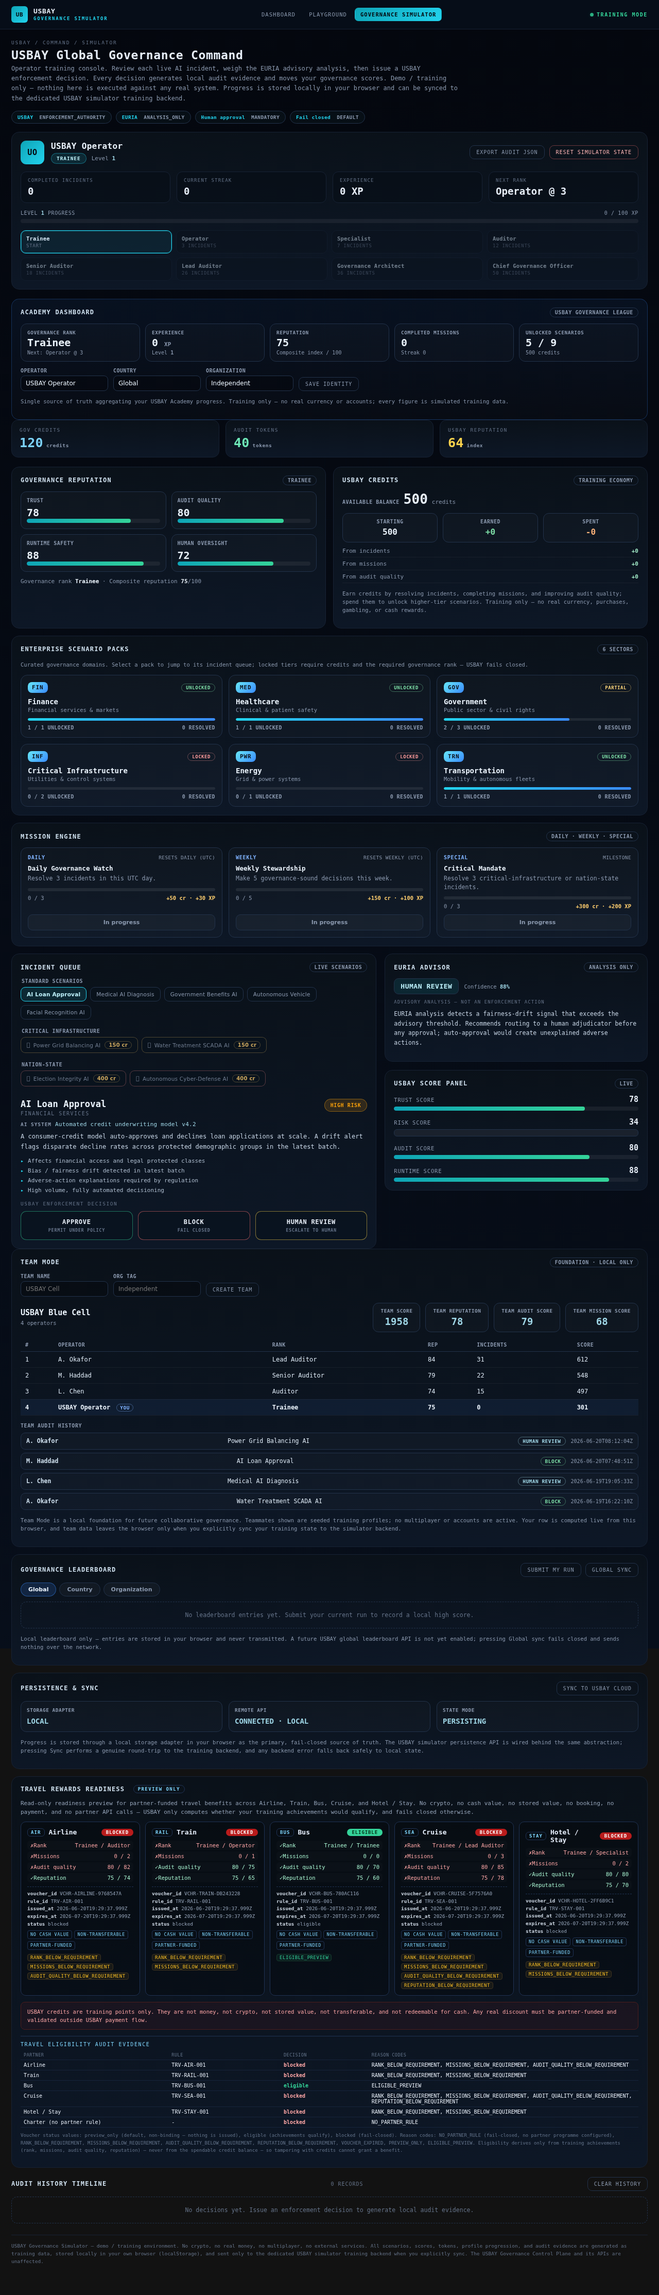
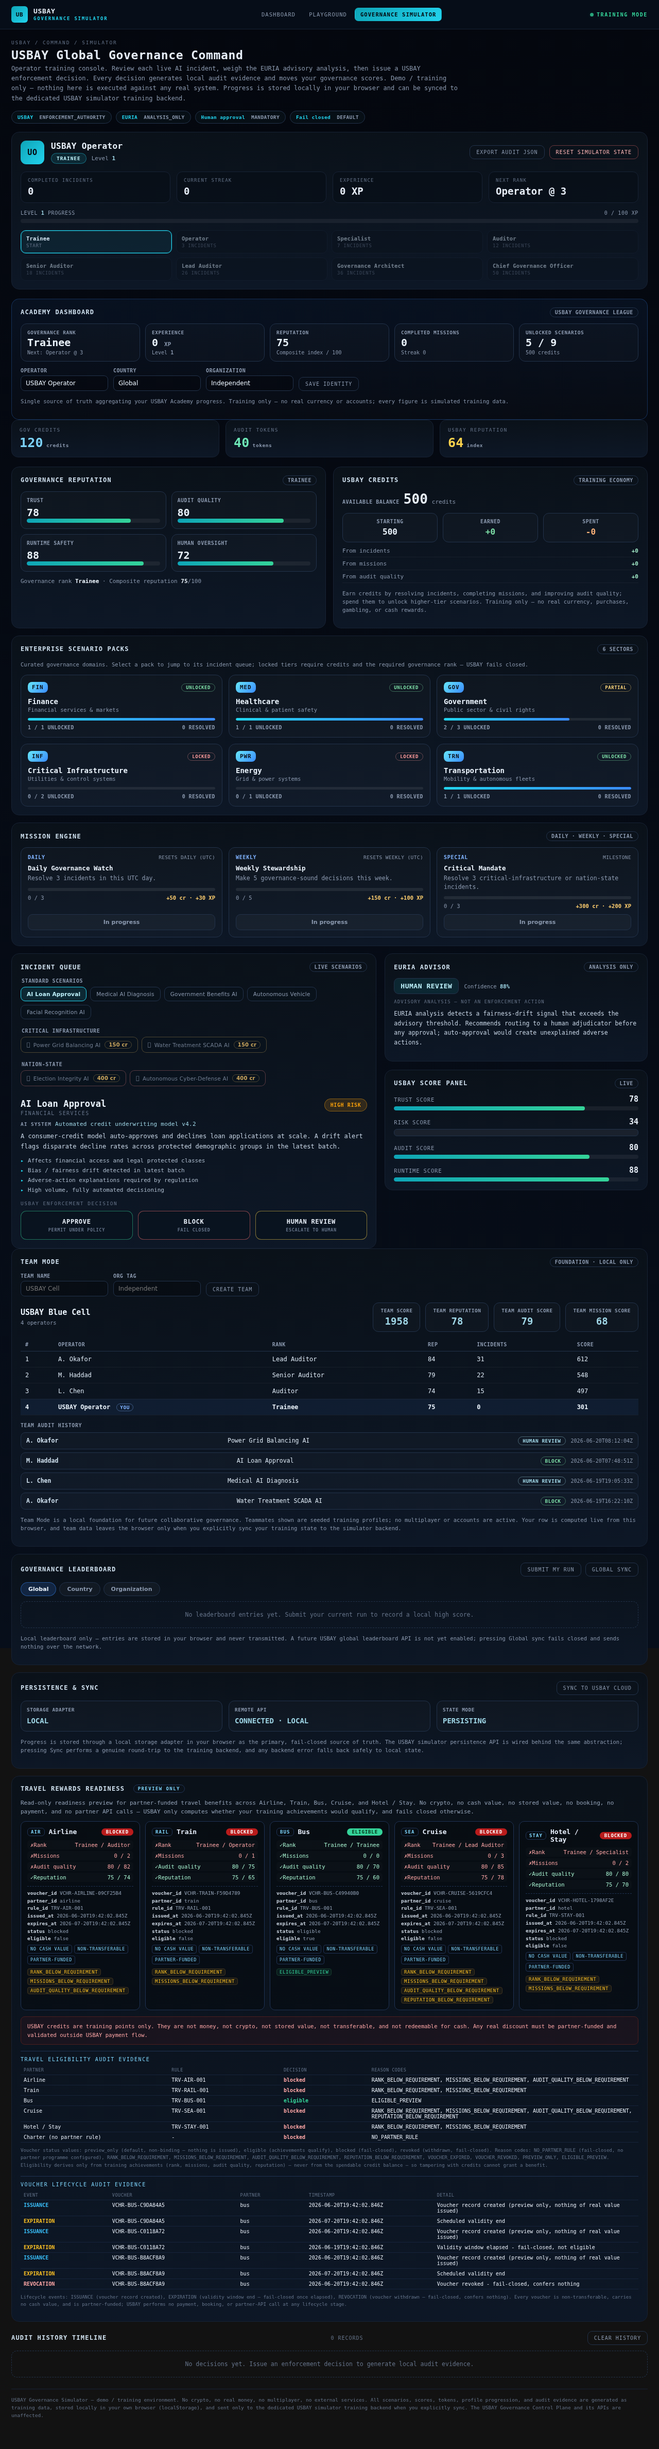
Add detailed voucher lifecycle tracking and revocation functionality
Implement a voucher framework with partner IDs, eligibility flags, revocation states, and a lifecycle audit table.

Replit-Commit-Author: Agent
Replit-Commit-Session-Id: 10dcf6be-d557-4147-8701-eb32a3d14e91
Replit-Commit-Checkpoint-Type: full_checkpoint
Replit-Commit-Event-Id: 1d6b1292-d80b-4be8-82ef-5ca2224a7b55
Replit-Commit-Screenshot-Url: https://storage.googleapis.com/screenshot-production-us-central1/76bb5c69-eeb6-4278-9927-109581d606aa/10dcf6be-d557-4147-8701-eb32a3d14e91/0ITZ0lg
Replit-Helium-Checkpoint-Created: true

diff --git a/gateway/app.py b/gateway/app.py
@@ -12280,6 +12280,10 @@ def governance_simulator_html() -> str:
       .trv-arow.head{color:#64748b;letter-spacing:.06em;text-transform:uppercase;font-size:8.5px;}
       .trv-as.el{color:#34d399;font-weight:700;} .trv-as.bl{color:#fca5a5;font-weight:700;}
       .trv-leg{margin-top:8px;font-size:9px;color:#64748b;line-height:1.6;}
+      .trv-life-aud{margin-top:14px;}
+      .trv-lrow{display:grid;grid-template-columns:.85fr 1.25fr .65fr 1.25fr 2fr;gap:8px;font-size:10px;padding:4px 6px;border-bottom:1px solid rgba(31,50,83,.5);}
+      .trv-lrow.head{color:#64748b;letter-spacing:.06em;text-transform:uppercase;font-size:8.5px;}
+      .trv-le{font-weight:700;} .trv-le.is{color:#38bdf8;} .trv-le.ex{color:#fbbf24;} .trv-le.rv{color:#fca5a5;}
     </style>
     <section class="panel trv" aria-label="Travel Rewards Readiness" id="travel">
       <div class="log-head">
@@ -12292,7 +12296,13 @@ def governance_simulator_html() -> str:
         <div class="trv-aud-h">Travel Eligibility Audit Evidence</div>
         <div class="trv-arow head"><span>Partner</span><span>Rule</span><span>Decision</span><span>Reason codes</span></div>
         <div id="trv-audit"></div>
-        <p class="trv-leg">Voucher status values: preview_only (default, non-binding &mdash; nothing is issued), eligible (achievements qualify), blocked (fail-closed). Reason codes: NO_PARTNER_RULE (fail-closed, no partner programme configured), RANK_BELOW_REQUIREMENT, MISSIONS_BELOW_REQUIREMENT, AUDIT_QUALITY_BELOW_REQUIREMENT, REPUTATION_BELOW_REQUIREMENT, VOUCHER_EXPIRED, PREVIEW_ONLY, ELIGIBLE_PREVIEW. Eligibility derives only from training achievements (rank, missions, audit quality, reputation) &mdash; never from the spendable credit balance &mdash; so tampering with credits cannot grant a benefit.</p>
+        <p class="trv-leg">Voucher status values: preview_only (default, non-binding &mdash; nothing is issued), eligible (achievements qualify), blocked (fail-closed), revoked (withdrawn, fail-closed). Reason codes: NO_PARTNER_RULE (fail-closed, no partner programme configured), RANK_BELOW_REQUIREMENT, MISSIONS_BELOW_REQUIREMENT, AUDIT_QUALITY_BELOW_REQUIREMENT, REPUTATION_BELOW_REQUIREMENT, VOUCHER_EXPIRED, VOUCHER_REVOKED, PREVIEW_ONLY, ELIGIBLE_PREVIEW. Eligibility derives only from training achievements (rank, missions, audit quality, reputation) &mdash; never from the spendable credit balance &mdash; so tampering with credits cannot grant a benefit.</p>
+      </div>
+      <div class="trv-aud trv-life-aud">
+        <div class="trv-aud-h">Voucher Lifecycle Audit Evidence</div>
+        <div class="trv-lrow head"><span>Event</span><span>Voucher</span><span>Partner</span><span>Timestamp</span><span>Detail</span></div>
+        <div id="trv-life"></div>
+        <p class="trv-leg">Lifecycle events: ISSUANCE (voucher record created), EXPIRATION (validity window end &mdash; fail-closed once elapsed), REVOCATION (voucher withdrawn &mdash; fail-closed, confers nothing). Every voucher is non-transferable, carries no cash value, and is partner-funded; USBAY performs no payment, booking, or partner-API call at any lifecycle stage.</p>
       </div>
     </section>
 
@@ -13052,10 +13062,13 @@ def governance_simulator_html() -> str:
       var v = {
         voucher_id: 'VCHR-' + String(partnerType || 'unknown').toUpperCase() + '-' + hex(8),
         partner_type: partnerType || 'unknown',
+        partner_id: partnerType || 'unknown',
         rule_id: rule ? rule.rule_id : null,
         issued_at: new Date(nowMs).toISOString(),
         expires_at: null,
+        revoked_at: null,
         status: 'blocked',
+        eligible: false,
         reasons: [],
         cash_value: 'none',
         transferable: false,
@@ -13063,11 +13076,20 @@ def governance_simulator_html() -> str:
       };
       if (!rule){ v.reasons.push('NO_PARTNER_RULE'); return v; }
       var expBase = (typeof opts.expiresAt === 'number') ? opts.expiresAt : (nowMs + rule.validityDays * 86400000);
+      v.expires_at = new Date(expBase).toISOString();
+      // Revocation is a terminal fail-closed state: a revoked voucher confers
+      // nothing regardless of achievements, and is never eligible.
+      if (opts.revoke === true || typeof opts.revokedAt === 'number'){
+        v.status = 'revoked';
+        v.eligible = false;
+        v.revoked_at = new Date(typeof opts.revokedAt === 'number' ? opts.revokedAt : nowMs).toISOString();
+        v.reasons.push('VOUCHER_REVOKED');
+        return v;
+      }
       // Non-binding preview: a voucher instantiated but not run through an
       // eligibility decision. Asserts nothing (fail-closed: confers no benefit).
       if (opts.preview === true){
         v.status = 'preview_only';
-        v.expires_at = new Date(expBase).toISOString();
         v.reasons.push('PREVIEW_ONLY');
         return v;
       }
@@ -13079,11 +13101,26 @@ def governance_simulator_html() -> str:
       if (travelMissionsDone() < rule.minMissions) v.reasons.push('MISSIONS_BELOW_REQUIREMENT');
       if (num(sc.audit, 0) < rule.minAudit) v.reasons.push('AUDIT_QUALITY_BELOW_REQUIREMENT');
       if (repIndex() < rule.minRep) v.reasons.push('REPUTATION_BELOW_REQUIREMENT');
-      var expMs = expBase;
-      v.expires_at = new Date(expMs).toISOString();
-      if (expMs <= nowMs) v.reasons.push('VOUCHER_EXPIRED');
-      if (v.reasons.length === 0){ v.status = 'eligible'; v.reasons.push('ELIGIBLE_PREVIEW'); }
+      if (expBase <= nowMs) v.reasons.push('VOUCHER_EXPIRED');
+      if (v.reasons.length === 0){ v.status = 'eligible'; v.eligible = true; v.reasons.push('ELIGIBLE_PREVIEW'); }
       return v;
+    }
+    // Voucher lifecycle audit evidence: derives issuance / expiration / revocation
+    // events from a voucher object. Read-only, illustrative, fail-closed.
+    function travelVoucherLifecycle(v){
+      var ev = [];
+      ev.push({event:'ISSUANCE', at:v.issued_at, voucher_id:v.voucher_id, partner_id:v.partner_id,
+        detail:'Voucher record created (preview only, nothing of real value issued)'});
+      if (v.expires_at){
+        var expired = (v.reasons.indexOf('VOUCHER_EXPIRED') !== -1);
+        ev.push({event:'EXPIRATION', at:v.expires_at, voucher_id:v.voucher_id, partner_id:v.partner_id,
+          detail: expired ? 'Validity window elapsed - fail-closed, not eligible' : 'Scheduled validity end'});
+      }
+      if (v.revoked_at){
+        ev.push({event:'REVOCATION', at:v.revoked_at, voucher_id:v.voucher_id, partner_id:v.partner_id,
+          detail:'Voucher revoked - fail-closed, confers nothing'});
+      }
+      return ev;
     }
     function trvReqRow(label, ok, detail){
       return '<div class="trv-req ' + (ok ? 'ok' : 'no') + '"><span>' + esc(label) + '</span><span>' + esc(detail) + '</span></div>';
@@ -13102,6 +13139,30 @@ def governance_simulator_html() -> str:
       // Fail-closed self-test: a partner_type with NO configured rule.
       rows.push(trvAuditRow('Charter (no partner rule)', evalTravelVoucher('charter', {})));
       box.innerHTML = rows.join('');
+    }
+    function trvLifeRow(e){
+      var cls = e.event === 'REVOCATION' ? 'rv' : (e.event === 'EXPIRATION' ? 'ex' : 'is');
+      return '<div class="trv-lrow">' +
+        '<span class="trv-le ' + cls + '">' + esc(e.event) + '</span>' +
+        '<span>' + esc(String(e.voucher_id)) + '</span>' +
+        '<span>' + esc(String(e.partner_id)) + '</span>' +
+        '<span>' + esc(String(e.at)) + '</span>' +
+        '<span>' + esc(String(e.detail)) + '</span>' +
+        '</div>';
+    }
+    function renderTravelLifecycle(){
+      var box = document.getElementById('trv-life'); if (!box) return;
+      var nowMs = Date.now();
+      // Three demonstrative lifecycles built from REAL eval calls (not hardcoded):
+      // an issued (eligible) voucher, an expired voucher, and a revoked voucher.
+      var issued  = evalTravelVoucher('bus', {now: nowMs});
+      var expired = evalTravelVoucher('bus', {now: nowMs, expiresAt: nowMs - 86400000});
+      var revoked = evalTravelVoucher('bus', {now: nowMs, revoke: true});
+      var rows = []
+        .concat(travelVoucherLifecycle(issued))
+        .concat(travelVoucherLifecycle(expired))
+        .concat(travelVoucherLifecycle(revoked));
+      box.innerHTML = rows.map(trvLifeRow).join('');
     }
     function renderTravel(){
       var disc = document.getElementById('trv-disc'); if (disc) disc.textContent = TRAVEL_DISCLAIMER;
@@ -13130,10 +13191,12 @@ def governance_simulator_html() -> str:
         var vch =
           '<div class="trv-vch">' +
           '<div><b>voucher_id</b> ' + esc(v.voucher_id) + '</div>' +
+          '<div><b>partner_id</b> ' + esc(String(v.partner_id)) + '</div>' +
           '<div><b>rule_id</b> ' + esc(String(v.rule_id)) + '</div>' +
           '<div><b>issued_at</b> ' + esc(v.issued_at) + '</div>' +
           '<div><b>expires_at</b> ' + esc(String(v.expires_at)) + '</div>' +
           '<div><b>status</b> ' + esc(v.status) + '</div>' +
+          '<div><b>eligible</b> ' + esc(String(v.eligible)) + '</div>' +
           '<div class="trv-flags"><span class="trv-flag">No cash value</span><span class="trv-flag">Non-transferable</span><span class="trv-flag">Partner-funded</span></div>' +
           '</div>';
         return '<div class="trv-card" data-trv="' + esc(p.type) + '">' +
@@ -13143,10 +13206,12 @@ def governance_simulator_html() -> str:
           '</div>';
       }).join('');
       renderTravelAudit();
+      renderTravelLifecycle();
     }
     try {
       window.__usbayTravel = {
         evalVoucher: evalTravelVoucher,
+        lifecycle: travelVoucherLifecycle,
         rules: TRAVEL_RULES,
         partners: TRAVEL_PARTNERS,
         missionsDone: travelMissionsDone,

diff --git a/scripts/_shot_travel_v2.py b/scripts/_shot_travel_v2.py
@@ -1,0 +1,129 @@
+import os
+from playwright.sync_api import sync_playwright
+
+URL = "http://localhost:5000/simulator"
+ROUTES = ["/simulator", "/", "/dashboard", "/playground", "/health", "/simulator/storage/health"]
+OUT = "/home/runner/workspace/evidence/audit"
+os.makedirs(OUT, exist_ok=True)
+
+errors = []
+results = []
+
+def check(name, cond):
+    results.append((name, bool(cond)))
+    print(("PASS " if cond else "FAIL ") + name, flush=True)
+
+with sync_playwright() as p:
+    browser = p.chromium.launch(executable_path=os.environ.get("CHROME") or p.chromium.executable_path, headless=True,
+                                args=["--no-sandbox", "--disable-dev-shm-usage", "--disable-gpu"])
+    ctx = browser.new_context(viewport={"width": 1280, "height": 3600}, device_scale_factor=1)
+    page = ctx.new_page()
+    page.on("console", lambda m: errors.append(m.text) if m.type == "error" else None)
+    page.on("pageerror", lambda e: errors.append("PAGEERROR: " + str(e)))
+
+    page.goto(URL, wait_until="domcontentloaded", timeout=45000)
+    page.evaluate("() => { try { localStorage.clear(); } catch(e){} }")
+    page.reload(wait_until="domcontentloaded")
+    page.wait_for_selector("#travel", timeout=15000)
+    page.add_style_tag(content="*{transition:none !important;animation:none !important;}")
+
+    # 1. Travel Partner Catalog: Airline/Train/Bus/Cruise/Hotel
+    cards = page.eval_on_selector_all("#trv-grid .trv-card", "els => els.map(e => e.getAttribute('data-trv')).join('|')")
+    check("partner catalog has all five partners", cards == "airline|train|bus|cruise|hotel")
+
+    # 2. Eligibility Rule Engine derives from rank/mission/audit/reputation (not credits)
+    v_cruise = page.evaluate("() => window.__usbayTravel.evalVoucher('cruise', {})")
+    check("rule engine evaluates rank", "RANK_BELOW_REQUIREMENT" in v_cruise["reasons"])
+    check("rule engine evaluates missions", "MISSIONS_BELOW_REQUIREMENT" in v_cruise["reasons"])
+
+    # 3. Voucher Object contract: voucher_id, partner_id, expires_at, eligible, transferable=false, cash_value=none
+    v_bus = page.evaluate("() => window.__usbayTravel.evalVoucher('bus', {})")
+    check("voucher has voucher_id", isinstance(v_bus.get("voucher_id"), str) and v_bus["voucher_id"].startswith("VCHR-"))
+    check("voucher has partner_id", v_bus.get("partner_id") == "bus")
+    check("voucher has expires_at", isinstance(v_bus.get("expires_at"), str))
+    check("voucher eligible is boolean true for qualifying partner", v_bus.get("eligible") is True)
+    check("voucher transferable=false", v_bus.get("transferable") is False)
+    check("voucher cash_value=none", v_bus.get("cash_value") == "none")
+    check("eligible field exposed in voucher UI", "eligible" in page.eval_on_selector("#trv-grid .trv-card .trv-vch", "e => e.textContent"))
+    check("partner_id field exposed in voucher UI", "partner_id" in page.eval_on_selector("#trv-grid .trv-card .trv-vch", "e => e.textContent"))
+
+    # blocked partner -> eligible false (fail-closed)
+    v_air = page.evaluate("() => window.__usbayTravel.evalVoucher('airline', {})")
+    check("blocked partner eligible=false", v_air.get("eligible") is False and v_air["status"] == "blocked")
+    # preview_only -> eligible false (non-binding, confers nothing)
+    v_prev = page.evaluate("() => window.__usbayTravel.evalVoucher('bus', {preview: true})")
+    check("preview_only eligible=false", v_prev.get("eligible") is False and v_prev["status"] == "preview_only")
+
+    # 4. Voucher Audit Evidence: issuance / expiration / revocation
+    issued = page.evaluate("() => window.__usbayTravel.lifecycle(window.__usbayTravel.evalVoucher('bus', {}))")
+    issued_events = [e["event"] for e in issued]
+    check("issued voucher lifecycle has ISSUANCE", "ISSUANCE" in issued_events)
+    check("issued voucher lifecycle has EXPIRATION", "EXPIRATION" in issued_events)
+
+    revoked = page.evaluate("() => window.__usbayTravel.evalVoucher('bus', {revoke: true})")
+    check("revoke -> status revoked", revoked["status"] == "revoked")
+    check("revoke -> eligible false (fail-closed)", revoked.get("eligible") is False)
+    check("revoke -> VOUCHER_REVOKED reason", "VOUCHER_REVOKED" in revoked["reasons"])
+    check("revoke -> revoked_at timestamp set", isinstance(revoked.get("revoked_at"), str))
+    check("revoked voucher still non-monetary", revoked["cash_value"] == "none" and revoked["transferable"] is False and revoked["funding"] == "partner_funded")
+    rev_events = [e["event"] for e in page.evaluate("() => window.__usbayTravel.lifecycle(window.__usbayTravel.evalVoucher('bus', {revoke: true}))")]
+    check("revoked voucher lifecycle has REVOCATION", "REVOCATION" in rev_events)
+
+    # lifecycle audit evidence table rendered with all three event types
+    page.wait_for_selector("#trv-life .trv-lrow", timeout=10000)
+    life_txt = page.eval_on_selector("#trv-life", "e => e.textContent")
+    check("lifecycle table shows ISSUANCE", "ISSUANCE" in life_txt)
+    check("lifecycle table shows EXPIRATION", "EXPIRATION" in life_txt)
+    check("lifecycle table shows REVOCATION", "REVOCATION" in life_txt)
+
+    # 6. Fail-Closed Verification: unknown partner has no rule -> not eligible, fail closed
+    v_missing = page.evaluate("() => window.__usbayTravel.evalVoucher('charter', {})")
+    check("unknown partner fail-closed (not eligible)", v_missing.get("eligible") is False and v_missing["status"] == "blocked")
+    check("unknown partner -> NO_PARTNER_RULE", "NO_PARTNER_RULE" in v_missing["reasons"])
+    # expired -> fail closed
+    v_exp = page.evaluate("() => window.__usbayTravel.evalVoucher('bus', {now: 1000000, expiresAt: 999000})")
+    check("expired voucher fail-closed (not eligible)", v_exp.get("eligible") is False and "VOUCHER_EXPIRED" in v_exp["reasons"])
+
+    # credit tamper cannot grant eligibility
+    before = page.evaluate("() => window.__usbayTravel.partners.map(p => window.__usbayTravel.evalVoucher(p.type, {}).eligible)")
+    page.evaluate("""() => {
+        try {
+            state.credits.start = 100000000;
+            state.credits.earned = 100000000;
+            state.credits.spent = 0;
+            state.credits.sources = {incidents: 100000000, missions: 100000000, audit: 100000000};
+        } catch(e){}
+    }""")
+    after = page.evaluate("() => window.__usbayTravel.partners.map(p => window.__usbayTravel.evalVoucher(p.type, {}).eligible)")
+    check("credit tamper does not change eligibility", before == after)
+
+    # Rules constraint: no payment / booking / partner-API / crypto / cashback rails
+    seen = []
+    page.on("request", lambda r: seen.append(r.url))
+    seen.clear()
+    page.evaluate("() => { window.__usbayTravel.partners.forEach(p => window.__usbayTravel.evalVoucher(p.type, {revoke:true})); }")
+    page.wait_for_timeout(300)
+    check("voucher lifecycle triggers zero network requests", len([u for u in seen if u]) == 0)
+    src = page.content().lower()
+    banned = ["stripe", "paypal", "checkout.session", "payment_intent", "/book", "booking_id", "card_number", "cashback", "crypto wallet"]
+    check("no payment/booking/partner-api rails referenced", not any(b in src for b in banned))
+
+    # existing routes still 200 (additive only)
+    for rt in ROUTES:
+        resp = page.request.get("http://localhost:5000" + rt)
+        check("route 200 " + rt, resp.status == 200)
+
+    page.goto(URL, wait_until="domcontentloaded", timeout=30000)
+    page.wait_for_selector("#trv-life .trv-lrow", timeout=15000)
+    page.add_style_tag(content="*{transition:none !important;animation:none !important;}")
+    page.screenshot(path=os.path.join(OUT, "travel_v2.png"), full_page=True)
+    page.locator("#travel").screenshot(path=os.path.join(OUT, "travel_panel_v2.png"))
+
+    browser.close()
+
+print("\nCONSOLE ERRORS:", "NONE" if not errors else "")
+for e in errors:
+    print("  -", e)
+passed = sum(1 for _, ok in results if ok)
+print("RESULT: %d/%d checks passed" % (passed, len(results)))
+print("DONE")

diff --git a/tests/test_travel_voucher.py b/tests/test_travel_voucher.py
@@ -1,0 +1,90 @@
+"""PB-TRAVEL-002 Partner Voucher Framework — server-rendered contract tests.
+
+The voucher framework is a read-only, preview-only layer inside the Governance
+Simulator (/simulator). These tests assert the framework markup and constants are
+present and that no payment/booking/partner-API/crypto/cashback rails leak into
+the rendered page. The interactive eligibility/lifecycle logic is covered by the
+Playwright suite scripts/_shot_travel_v2.py.
+"""
+
+import pytest
+from fastapi.testclient import TestClient
+
+from gateway import app as gateway_app
+
+
+@pytest.fixture()
+def client():
+    return TestClient(gateway_app.app, raise_server_exceptions=False)
+
+
+def _simulator_html(client):
+    res = client.get("/simulator")
+    assert res.status_code == 200
+    return res.text
+
+
+def test_partner_catalog_present(client):
+    html = _simulator_html(client)
+    for label in ("Airline", "Train", "Bus", "Cruise", "Hotel / Stay"):
+        assert label in html
+    for ptype in ("airline", "train", "bus", "cruise", "hotel"):
+        assert ptype in html
+
+
+def test_eligibility_rule_engine_dimensions(client):
+    html = _simulator_html(client)
+    for reason in (
+        "RANK_BELOW_REQUIREMENT",
+        "MISSIONS_BELOW_REQUIREMENT",
+        "AUDIT_QUALITY_BELOW_REQUIREMENT",
+        "REPUTATION_BELOW_REQUIREMENT",
+    ):
+        assert reason in html
+
+
+def test_voucher_object_contract(client):
+    html = _simulator_html(client)
+    for field in ("voucher_id", "partner_id", "expires_at", "eligible"):
+        assert field in html
+    # non-monetary invariants
+    assert "transferable: false" in html
+    assert "cash_value: 'none'" in html
+    assert "funding: 'partner_funded'" in html
+
+
+def test_voucher_lifecycle_audit_evidence(client):
+    html = _simulator_html(client)
+    assert "Voucher Lifecycle Audit Evidence" in html
+    for event in ("ISSUANCE", "EXPIRATION", "REVOCATION"):
+        assert event in html
+    assert "VOUCHER_REVOKED" in html
+
+
+def test_fail_closed_markers(client):
+    html = _simulator_html(client)
+    assert "NO_PARTNER_RULE" in html
+    assert "VOUCHER_EXPIRED" in html
+    # disclaimer present
+    assert "not redeemable for cash" in html
+
+
+def test_no_payment_or_partner_api_rails(client):
+    html = _simulator_html(client).lower()
+    for banned in (
+        "stripe",
+        "paypal",
+        "checkout.session",
+        "payment_intent",
+        "booking_id",
+        "card_number",
+        "cashback",
+    ):
+        assert banned not in html
+
+
+def test_control_plane_untouched(client):
+    # The decide control-plane endpoint must still reject unsigned requests
+    # (additive travel layer changes nothing about runtime governance).
+    res = client.post("/decide", json={})
+    assert res.status_code in (400, 401, 403, 422)

diff --git a/.agents/memory/usbay-governance-dashboard.md b/.agents/memory/usbay-governance-dashboard.md
@@ -159,3 +159,9 @@ ADDITIVE read-only layer inside `governance_simulator_html()` (the `/simulator` 
 **Status enum is preview_only/eligible/blocked:** missing partner rule → `blocked`+`NO_PARTNER_RULE` (checked FIRST, fail-closed); `opts.preview===true` → `preview_only`+`PREVIEW_ONLY` (non-binding, confers nothing, only for known partners); else eligible/blocked from reqs + expiry (`VOUCHER_EXPIRED` when `expires_at<=now`). Thresholds are tiered so bus is eligible on FRESH default state (rank Trainee, audit 80, rep 75, 0 missions) and the other four are blocked — gives a mixed screenshot.
 **Why a `window.__usbayTravel` export:** the eval fn lives in the IIFE; Playwright drives missing-rule/expired/tamper/preview cases via `window.__usbayTravel.evalVoucher(...)` (opts.now/opts.expiresAt/opts.preview overridable). `renderTravel` itself is NOT global.
 **How to apply:** CSS lives in a scoped inline `<style>` (`.trv-*`) before the audit-log `<section>`; the `\2713`/`\2717` content escapes must be written `\\2713`/`\\2717` in the Python source (plain triple-quoted string → `\\`→`\`). All dynamic values `esc()`'d. Test: `scripts/_shot_travel_v1.py` (31/31) → `evidence/audit/travel_v1.png` + `travel_panel_v1.png`. No crypto/gambling/cash/stored-value/booking/payment/partner-API; control plane untouched. Architect PASSED after adding the preview_only state.
+
+## Travel layer voucher model — PB-TRAVEL-002 fields, revocation, and lifecycle audit
+The `#travel` voucher object (built by `evalTravelVoucher(partnerType, opts)`) carries BOTH `partner_type` AND `partner_id` (same value — partner_id added for the framework contract), plus a boolean `eligible` and a `revoked_at`. `eligible` is fail-closed `false` by default and set `true` ONLY in the single success path (`v.reasons.length===0`) — so it stays false for blocked/preview_only/expired/missing-rule/revoked. When changing the voucher shape, keep `eligible` derived from that one branch, never set it independently.
+**Revocation is a terminal fail-closed state** checked BEFORE preview/eligibility: `opts.revoke===true || typeof opts.revokedAt==='number'` → `status:'revoked'`, `eligible:false`, reason `VOUCHER_REVOKED`, `revoked_at` set, returns immediately (confers nothing). Status enum is now preview_only/eligible/blocked/revoked.
+**Lifecycle audit evidence:** `travelVoucherLifecycle(v)` derives events from a voucher object — always ISSUANCE; EXPIRATION when `expires_at` set (detail flips on the `VOUCHER_EXPIRED` reason); REVOCATION when `revoked_at` set. `renderTravelLifecycle()` builds the `#trv-life` table from THREE real eval calls (issued/expired/revoked bus voucher) so all three event types are always visible. Exposed for tests as `window.__usbayTravel.lifecycle`.
+**Tests:** Playwright `scripts/_shot_travel_v2.py` (36/36) covers the field contract, revocation, lifecycle, fail-closed, credit-tamper, zero-network; pytest `tests/test_travel_voucher.py` (7) asserts server-rendered markers via `TestClient(gateway.app.app)` GET `/simulator` (note: import is `from gateway import app as gateway_app`; control-plane guard test posts `/decide` expecting 4xx). Architect PASSED. Still no payment/booking/partner-API/crypto/cashback; control plane untouched.
